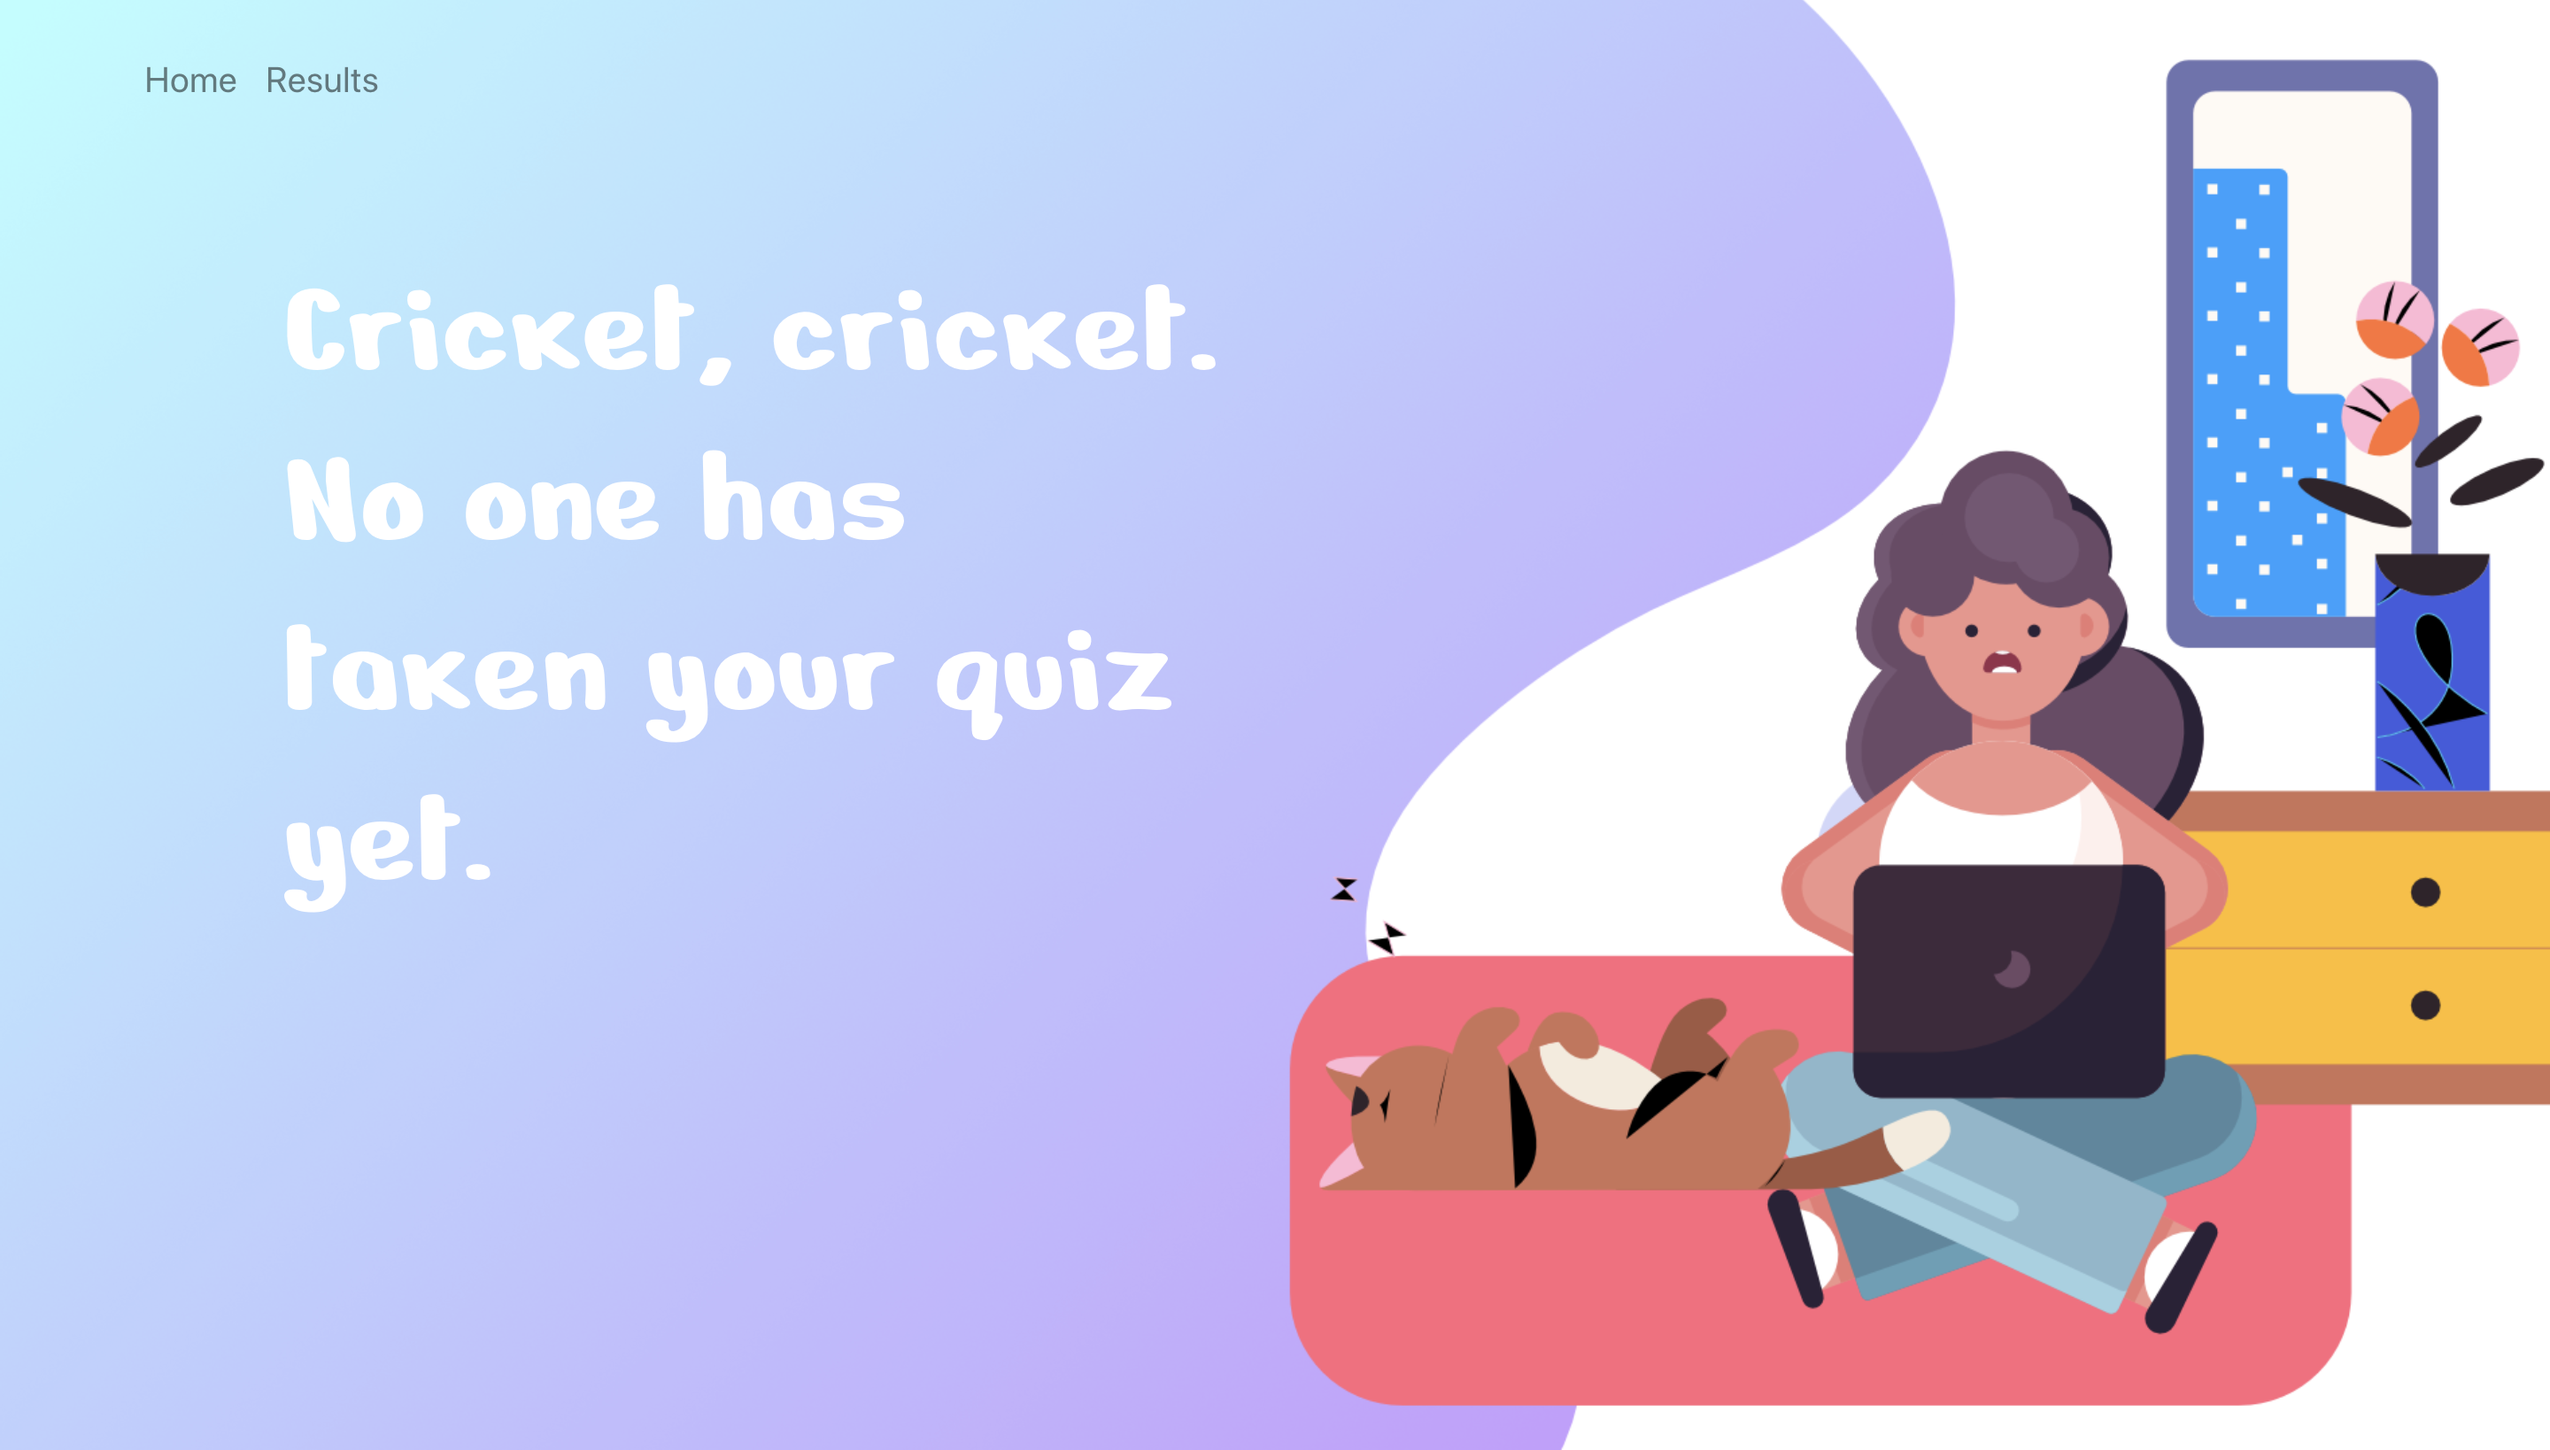
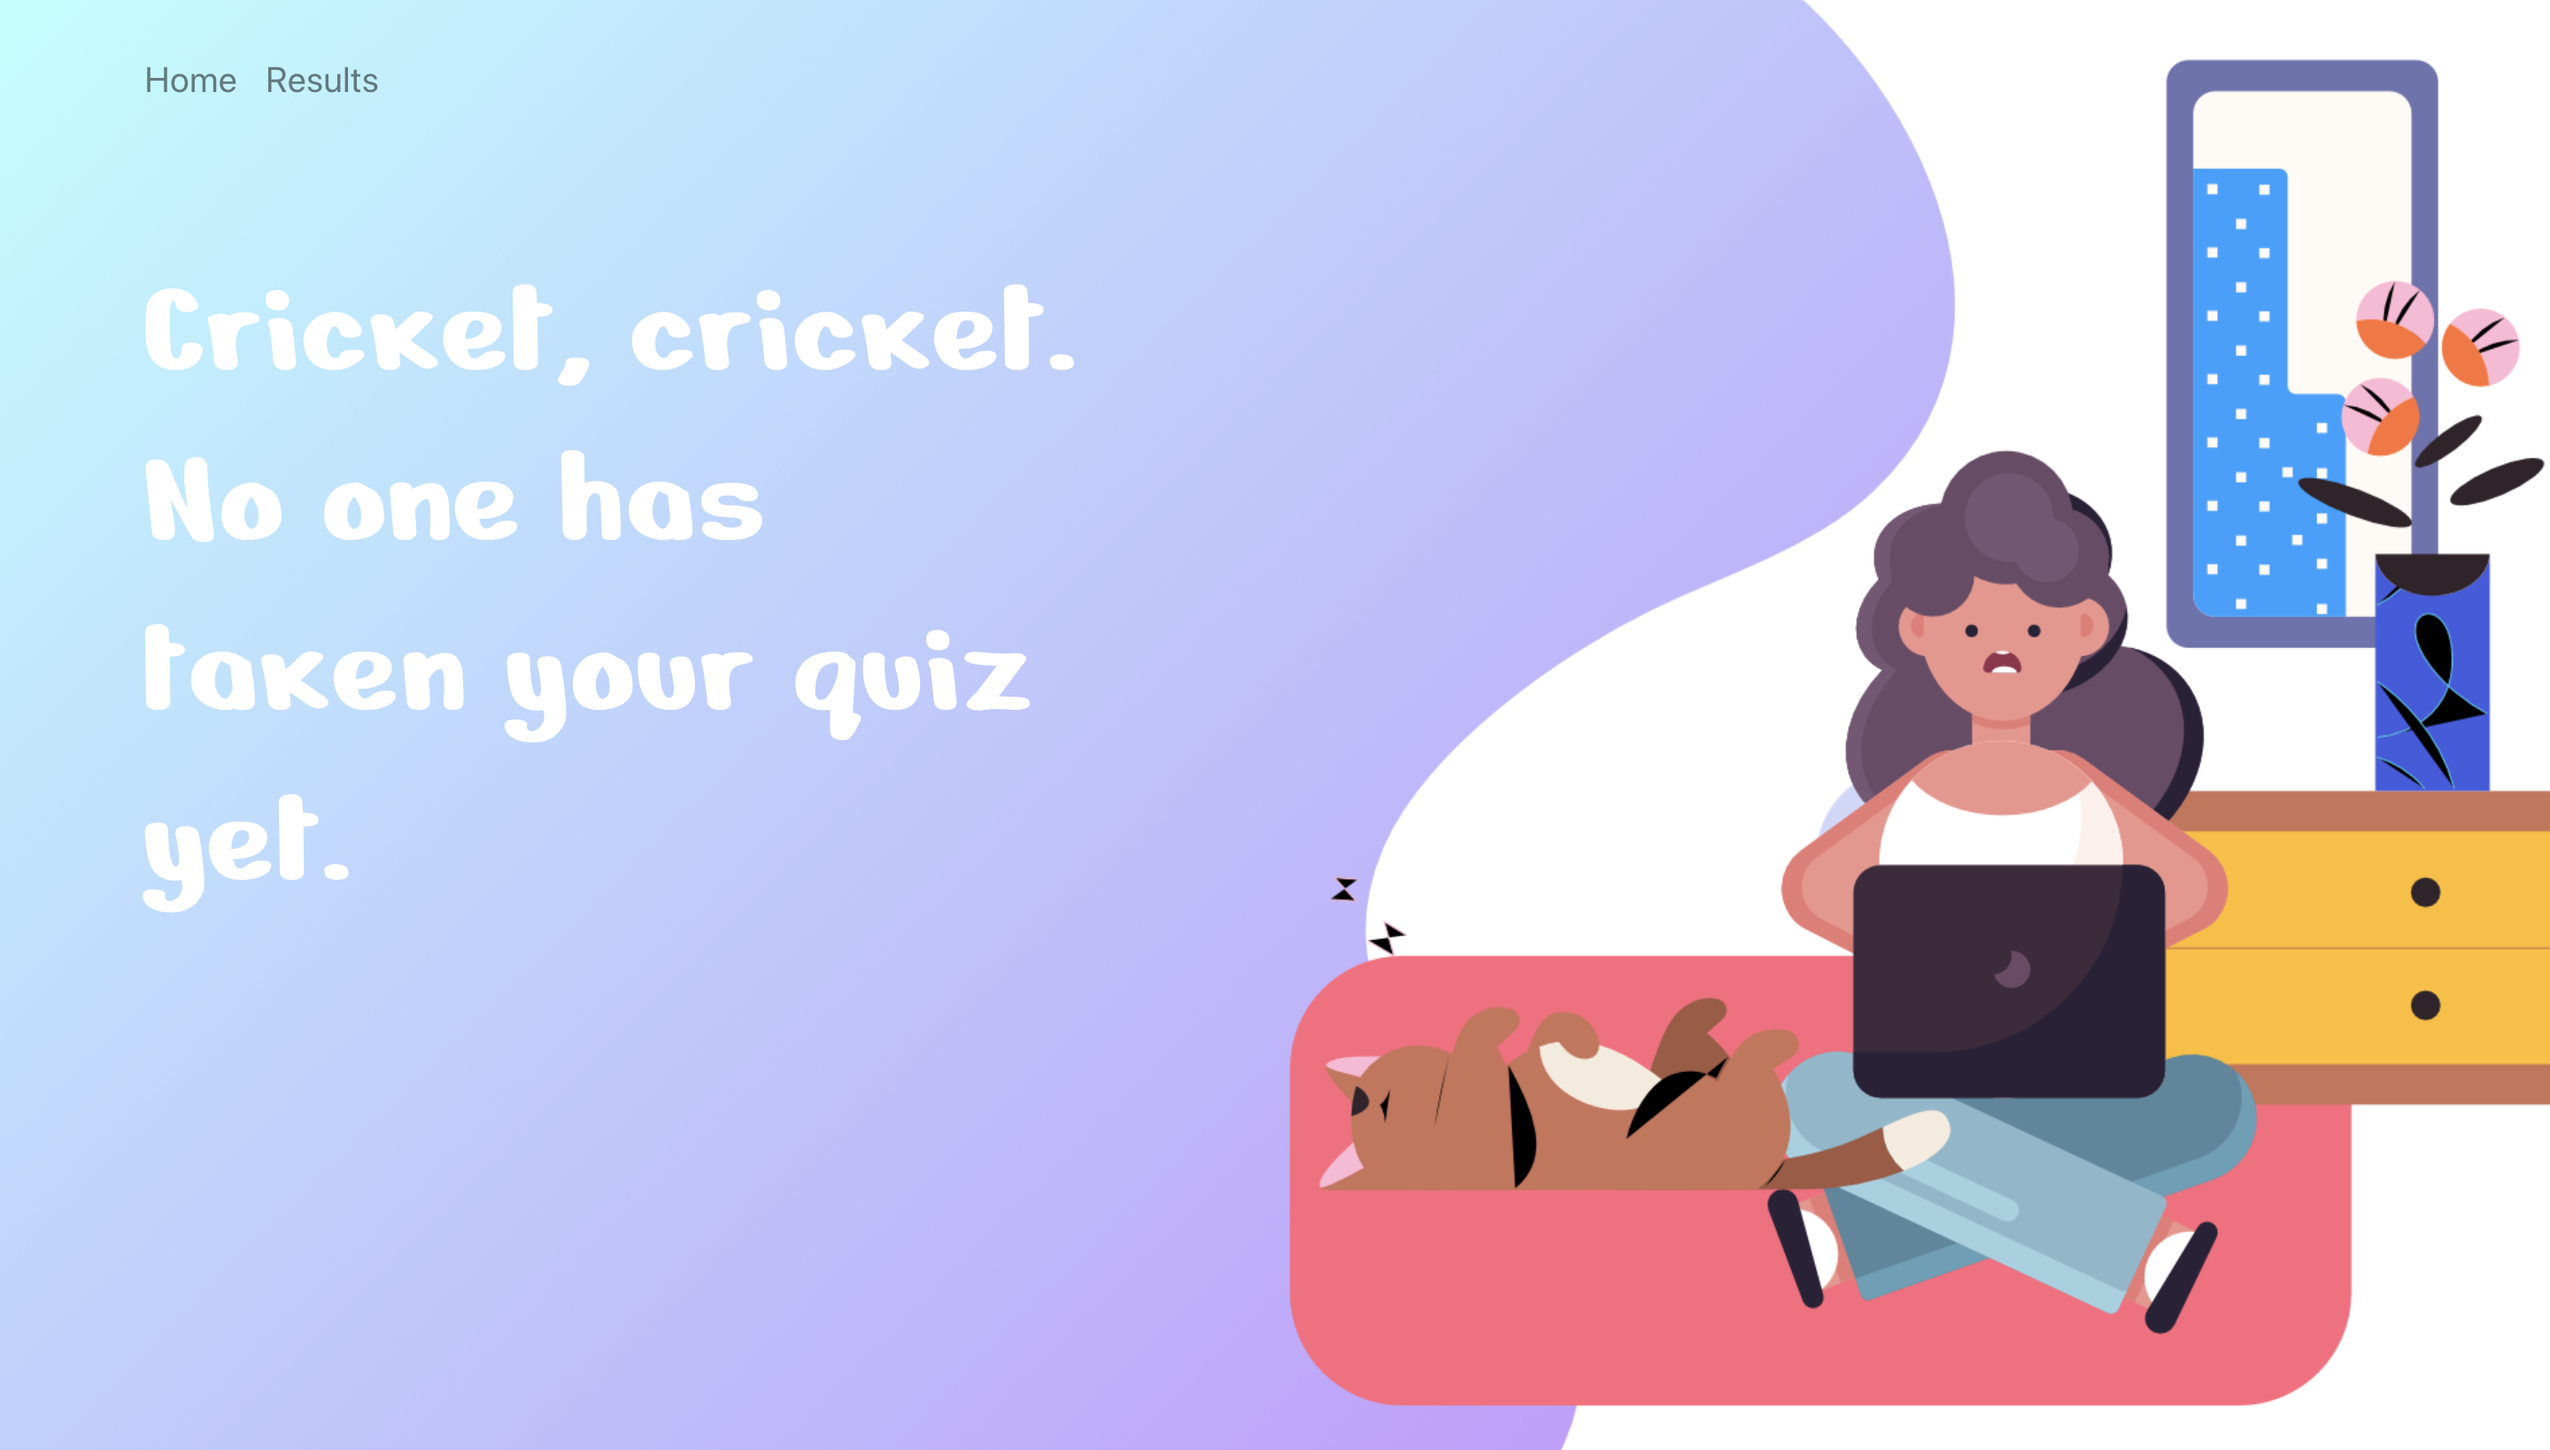
Fixed no results view

diff --git a/client/src/components/Results/myresults.css b/client/src/components/Results/myresults.css
@@ -35,7 +35,7 @@
 .no-results {
     background: url('../../images/no_results.png') no-repeat center center /cover;
     height: 100vh;
-    padding: 40px 80px;
+    padding: 40px 0px;
 }
 
 .my-results {
